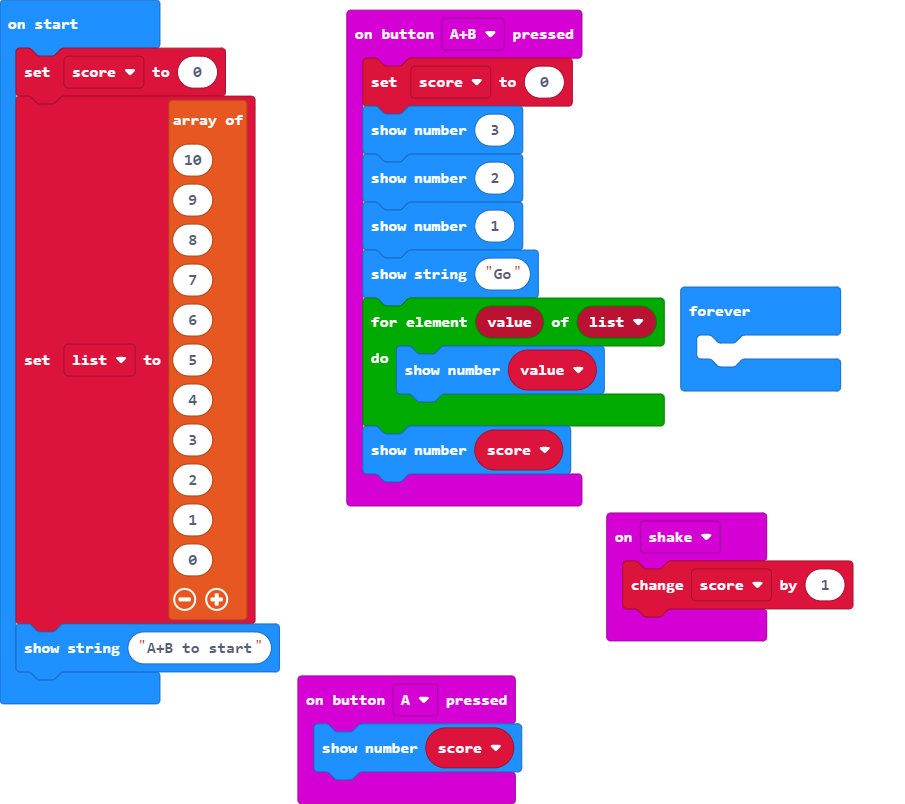
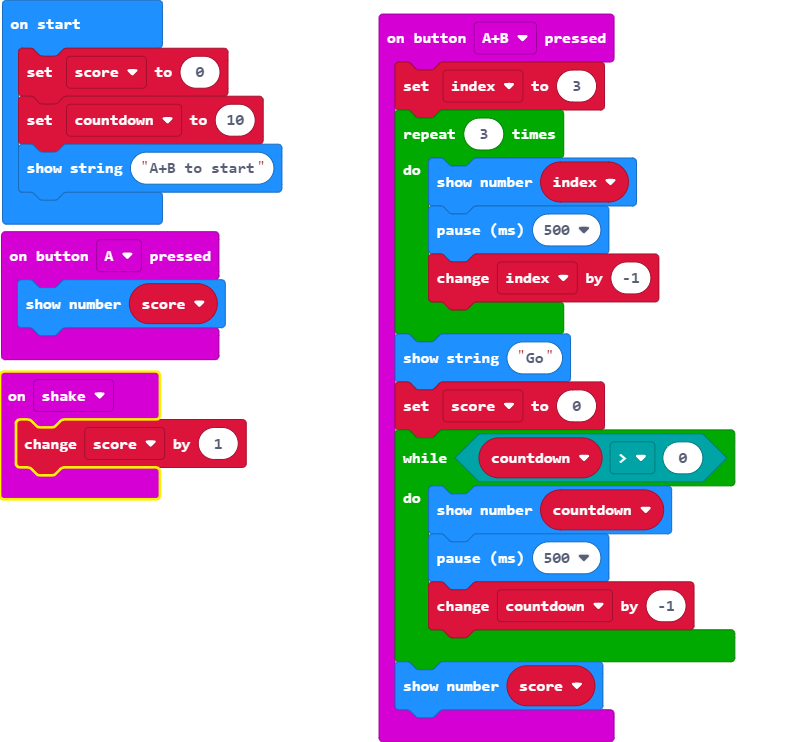
Changed the code structure

diff --git a/main.ts b/main.ts
@@ -2,15 +2,18 @@ input.onButtonPressed(Button.A, function () {
     basic.showNumber(score)
 })
 input.onButtonPressed(Button.AB, function () {
-    index = 10
-    basic.showNumber(3)
-    basic.showNumber(2)
-    basic.showNumber(1)
+    index = 3
+    for (let index2 = 0; index2 < 3; index2++) {
+        basic.showNumber(index)
+        basic.pause(500)
+        index += -1
+    }
     basic.showString("Go")
     score = 0
-    while (index > 0) {
-        basic.showNumber(index)
-        basic.pause(1000)
+    while (countdown > 0) {
+        basic.showNumber(countdown)
+        basic.pause(500)
+        countdown += -1
     }
     basic.showNumber(score)
 })
@@ -18,9 +21,8 @@ input.onGesture(Gesture.Shake, function () {
     score += 1
 })
 let index = 0
+let countdown = 0
 let score = 0
 score = 0
+countdown = 10
 basic.showString("A+B to start")
-basic.forever(function () {
-	
-})
